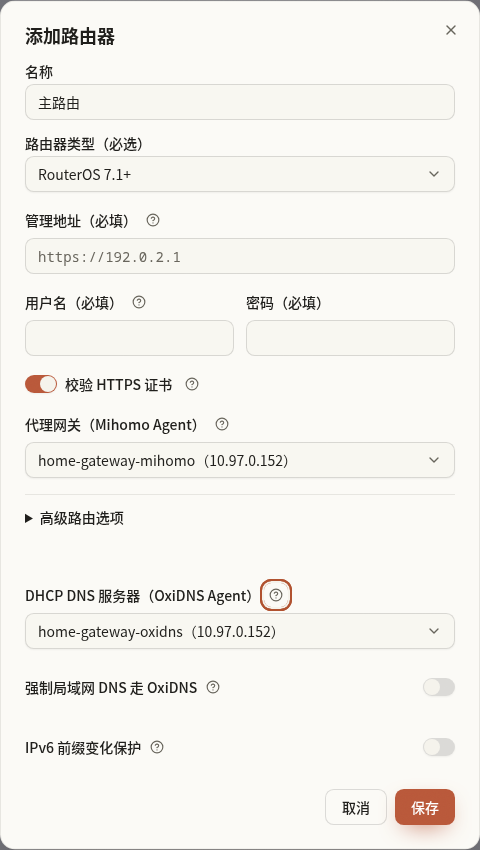
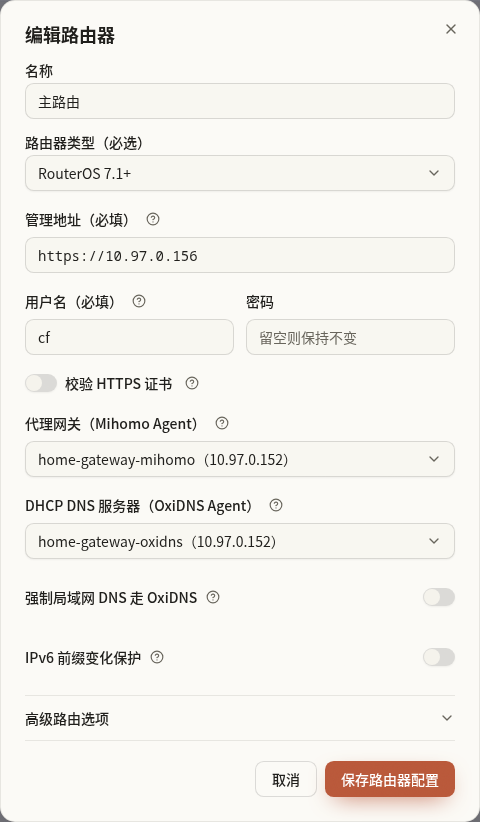
同步路由器表单截图与保存按钮测试

diff --git a/frontend/tests/routers-view.test.ts b/frontend/tests/routers-view.test.ts
@@ -143,7 +143,7 @@ describe('routers view', () => {
     menu.find(item => item.textContent === '编辑')!.click(); await flushPromises()
     expect(document.body.querySelector('#router-ip-rule-sets')).not.toBeNull()
     expect(document.body.querySelector('#router-policy-rule-sets')).toBeNull()
-    buttonInDocument('保存').click(); await flushPromises()
+    buttonInDocument('保存路由器配置').click(); await flushPromises()
     expect(routerApi.update).toHaveBeenCalledWith('router_1', expect.objectContaining({ type: 'routeros', ros_policy_rule_sets: [] }), 'setup-profile')
     wrapper.unmount()
     // A router that already uses policy routing keeps the option so it can be cleared.
@@ -173,7 +173,7 @@ describe('routers view', () => {
     for (const [id, value] of [['router-name', 'Guide router'], ['router-endpoint', 'http://192.0.2.1'], ['router-username', 'admin'], ['router-password', 'private']]) {
       await new DOMWrapper(document.querySelector<HTMLInputElement>(`#${id}`)!).setValue(value)
     }
-    buttonInDocument('保存').click()
+    buttonInDocument('保存路由器配置').click()
     await flushPromises()
     expect(routerApi.create).toHaveBeenCalledWith(expect.objectContaining({ proxy_gateway_agent_id: 'new-m', dns_agent_id: 'new-o' }), 'setup-profile')
     expect(wrapper.emitted('busy')?.some(event => event[0] === true)).toBe(true)

diff --git a/doc/manual/routers.md b/doc/manual/routers.md
@@ -8,7 +8,7 @@
 
 点击字段旁的问号可查看管理地址、代理网关和 DHCP DNS 的填写说明。首次向导的「高级路由选项」位于表单末尾，收起后仍保留本次填写的值。「保存路由器配置」会一起保存普通字段和高级选项。
 
-![首次向导中精简后的添加路由器表单](../img/guide/router-add-help.png)
+![首次向导中的路由器表单与底部高级路由选项](../img/guide/router-add-help.png)
 
 | 字段 | 填什么 / 默认值 | 推荐与效果 |
 | --- | --- | --- |
